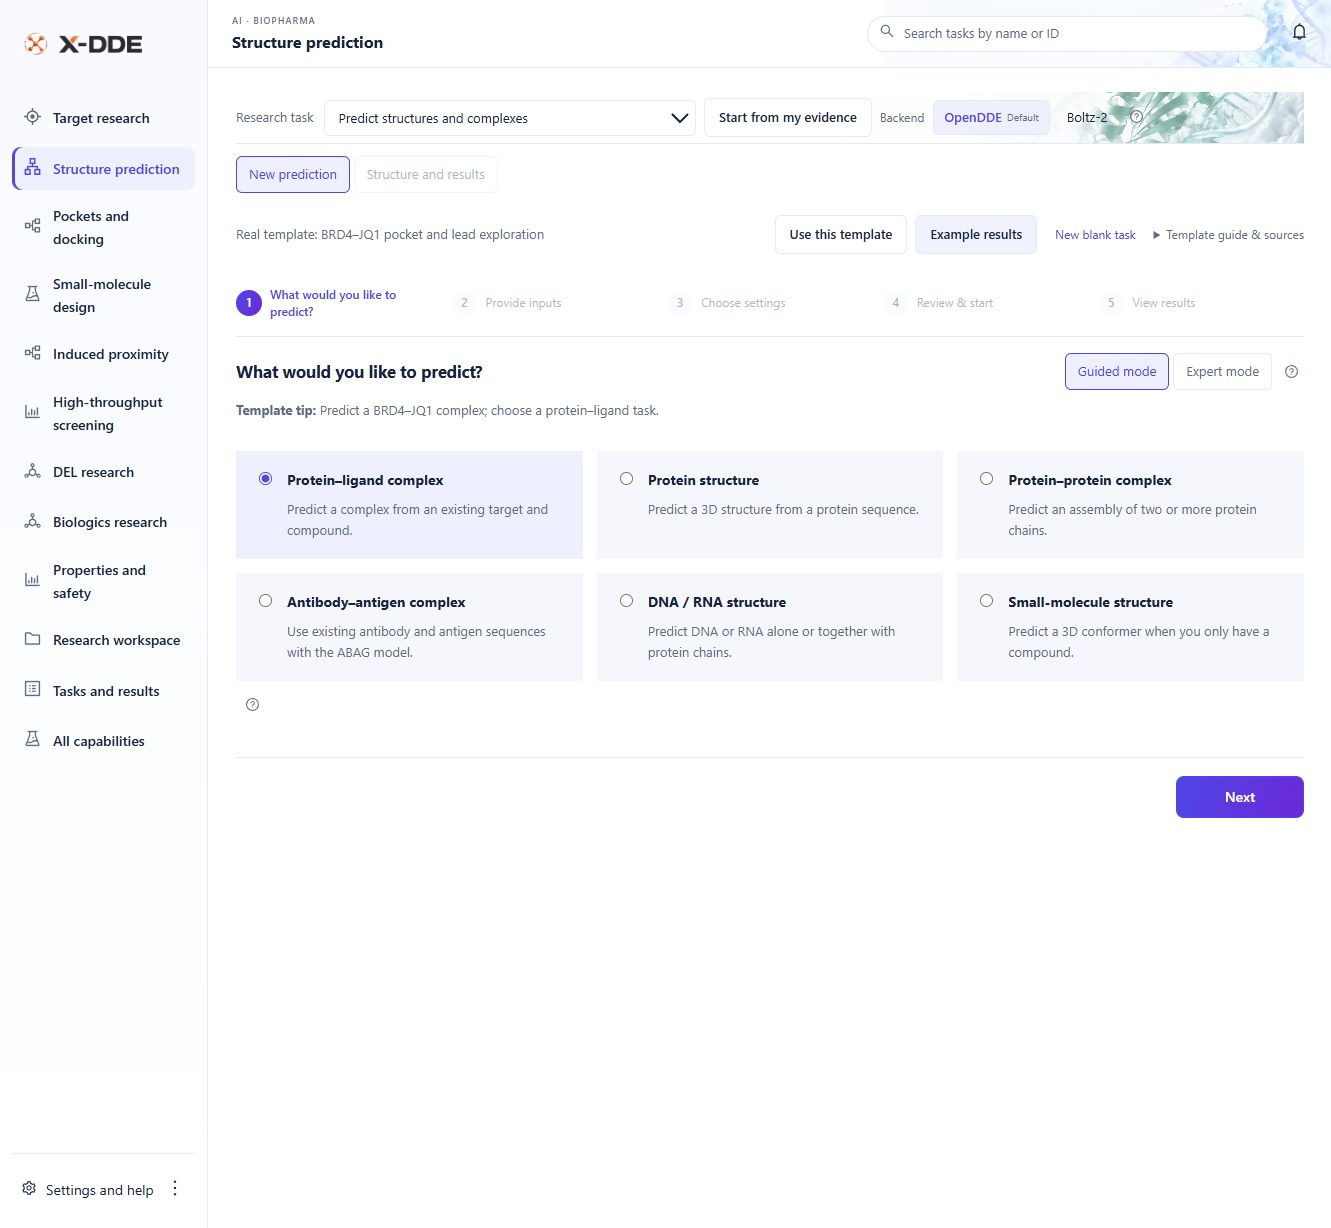
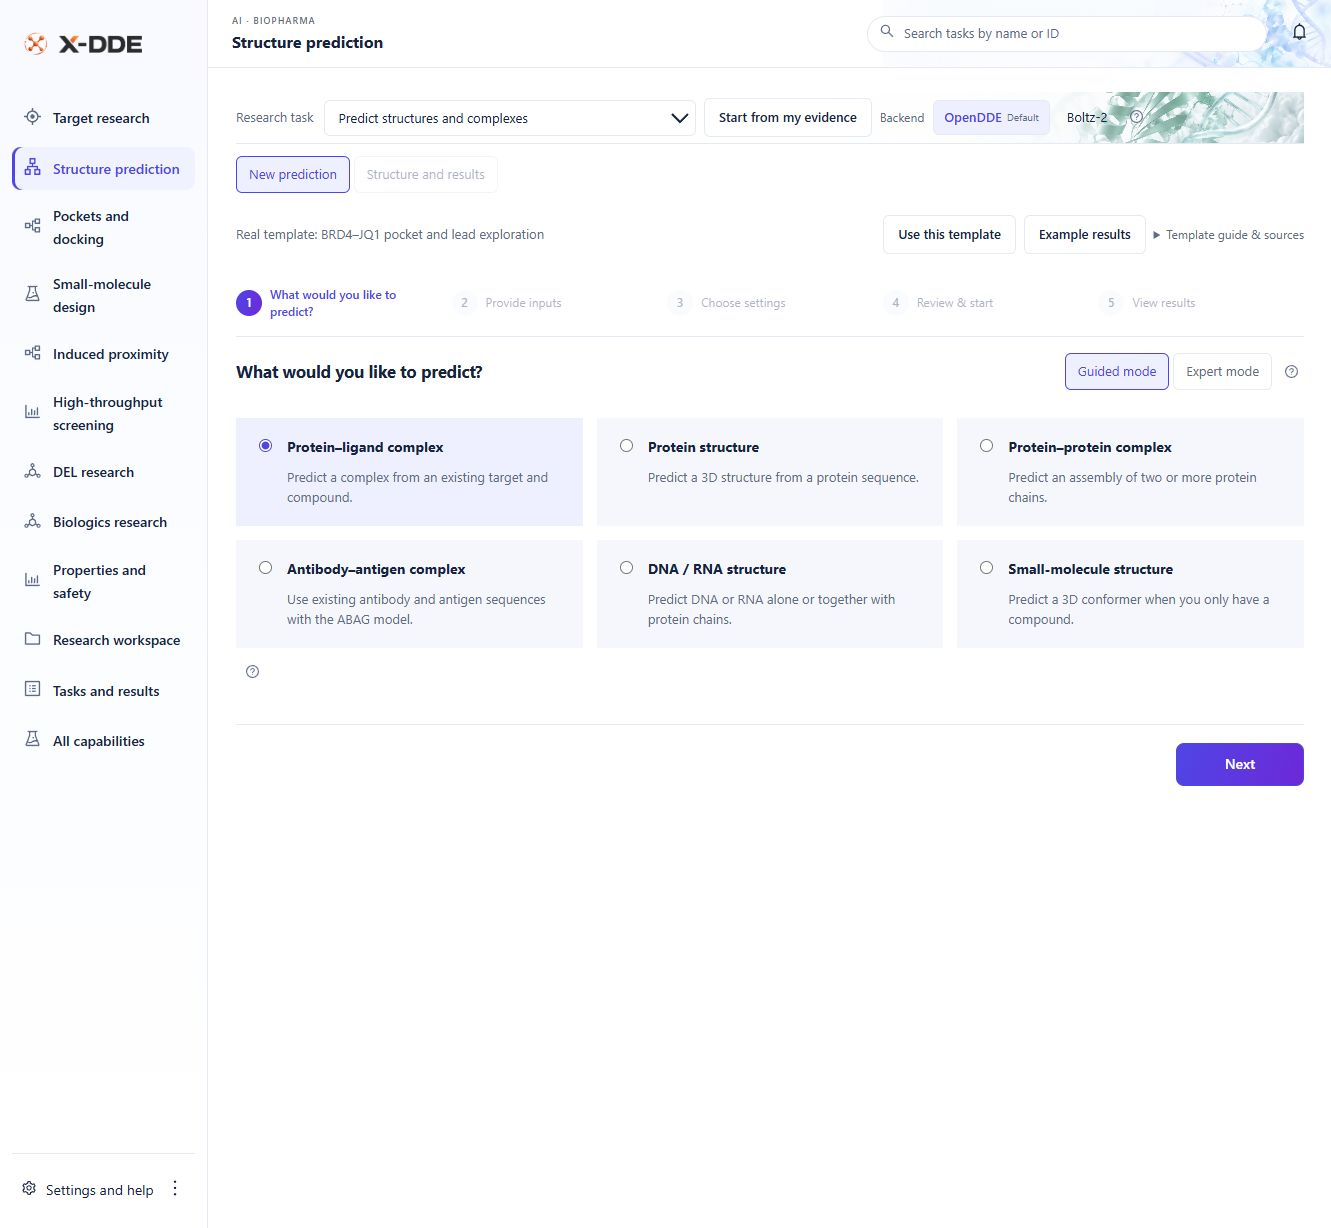
Refresh bilingual overviews with authentic English interface captures

diff --git a/docs/images/README.md b/docs/images/README.md
@@ -1,12 +1,12 @@
 # 项目介绍图片
 
-[返回项目介绍](../../README.md)
+[中文介绍](../../README.md) · [English overview](../../README.en.md)
 
 ## 实际软件页面
 
-这些图片重新截取自实际运行的 X-DDE **v0.4.49 英文界面**，使用公开研究输入与保留的原生计算结果。截图未经重新绘制，没有替换图片文字，也没有加入虚构数字或生成的分子结构。中英文介绍均引用同一组英文软件截图。
+这些图片重新截取自实际运行的 X-DDE **v0.4.53 英文界面**，使用公开研究输入与保留的原生计算结果。截图未经重新绘制，没有替换图片文字，也没有加入虚构数字或生成的分子结构。中英文介绍均引用同一组英文软件截图。
 
-软件来源：[提交 0d8d29e](https://github.com/Victor-Xu-1/X-DDE/commit/0d8d29e00b03462adef31d90bf359ad85b7646f4)、[原生案例浏览器验证](https://github.com/Victor-Xu-1/X-DDE/actions/runs/37722758677)、[对应发行版](https://github.com/Victor-Xu-1/X-DDE/releases/tag/v0.4.49)。本组截图通过软件语言设置切换到 English 后直接采集。图中的安装状态是真实实例的状态；查看已归档结果不等于再次运行模型。
+软件来源：[提交 1231425](https://github.com/Victor-Xu-1/X-DDE/commit/1231425a333c0924d35c229084e9e2924cbe38fe)、[对应发行版](https://github.com/Victor-Xu-1/X-DDE/releases/tag/v0.4.53)。本组截图通过软件语言设置切换到 English 后直接采集，并逐图检查。使用既有公开案例，没有再次启动模型或安装组件。图中的安装状态是真实实例的状态。原生案例的先前浏览器验证见 [v0.4.49 案例检查](https://github.com/Victor-Xu-1/X-DDE/actions/runs/37722758677)；三维接触和相机更新另经 [v0.4.53 专项检查](https://github.com/Victor-Xu-1/X-DDE/actions/runs/37738860843)，这些检查与本次截图采集分别记录。
 
 | 图片 | 展示内容 | 身份 |
 | --- | --- | --- |
@@ -28,6 +28,6 @@
 
 ## English
 
-All seven interface images are direct captures of the running v0.4.49 application after selecting **English** in its language settings. Both complete README versions use these English interface captures. Screenshot text and scientific content were not repainted or replaced. Native results, unbound conformers, input-only design examples and actual installation states remain distinct.
+All seven interface images are direct captures of the running v0.4.53 application after selecting **English** in its language settings. Both complete README versions use these English interface captures. Screenshot text and scientific content were not repainted or replaced. Native results, unbound conformers, input-only design examples and actual installation states remain distinct. Existing public cases were inspected without running new inference or installing components. Capture revision and prior automated validation are recorded separately in the provenance file.
 
 The three infographic assets explain architecture and research flow; they are not application screenshots or experimental results. File identities, capture language and roles are recorded in [provenance.json](provenance.json).

diff --git a/README.en.md b/README.en.md
@@ -2,6 +2,8 @@
 
 [中文](README.md) · **English**
 
+Use the links above to switch between the complete Chinese and English overviews. Both versions show actual software pages captured in the **English interface**.
+
 **A visual research platform for early drug discovery.**
 
 Connect scientific tools, models and research files into usable research workflows. Start with targets, structures and pockets; explore small molecules, biologics, high-throughput screening and DNA-encoded libraries. Prepare tasks, inspect results, revise materials and continue the next step in one workspace.
@@ -63,7 +65,7 @@ These are connected research paths. Each handoff selects actual materials and ve
 
 ## What the interface looks like
 
-The images below are **actual English-language pages from the running v0.4.49 software**, using public research inputs and retained native results. Structures, tables, molecules and values come directly from the application. No screenshot text has been repainted or translated in the image. Architecture illustrations are separate explanatory visuals.
+The images below are **actual English-language pages from the running v0.4.53 software**, using public research inputs and retained native results. Structures, tables, molecules and values come directly from the application. No screenshot text has been repainted or translated in the image. Architecture illustrations are separate explanatory visuals.
 
 ### 1. Prepare tasks like a questionnaire
 

diff --git a/README.md b/README.md
@@ -2,6 +2,8 @@
 
 **中文** · [English](README.en.md)
 
+完整中文介绍与英文介绍可在上方切换；两版中的实际软件页面统一使用 **English 界面**。
+
 **面向早期药物发现的可视化研究平台。**
 
 把分散的科学软件、模型和研究文件，组织成可以衔接的研究流程。从靶点、结构和口袋开始，开展小分子、生物药、高通量筛选与 DEL 研究；在同一工作台中准备任务、检查结果、修改材料并继续下一步。
@@ -63,7 +65,7 @@ flowchart LR
 
 ## 操作页面是什么样
 
-以下是 **v0.4.49 实际运行的英文界面截图**，使用公开研究输入与归档的原生结果。结构、表格、分子和数值来自软件实际页面，未重新绘制或替换图片文字。架构插图单独用于解释设计，不代替运行截图。
+以下是 **v0.4.53 实际运行的英文界面截图**，使用公开研究输入与归档的原生结果。结构、表格、分子和数值来自软件实际页面，未重新绘制或替换图片文字。架构插图单独用于解释设计，不代替运行截图。
 
 ### 1. 像填问卷一样准备任务
 
